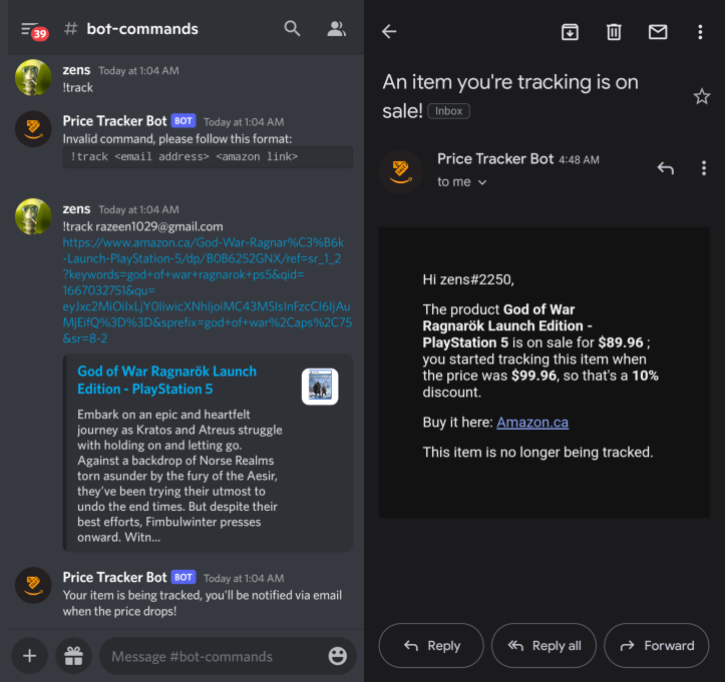
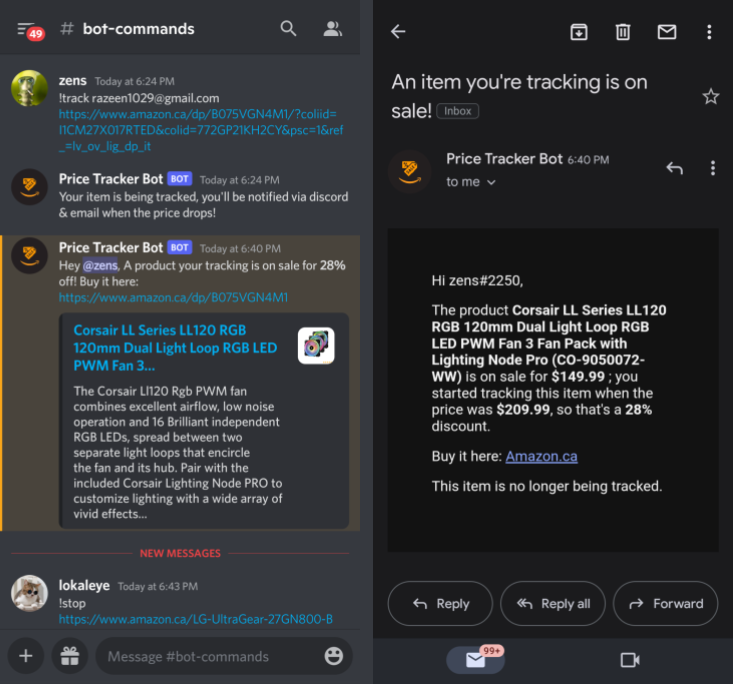
implemented cogs

diff --git a/bot.py b/bot.py
@@ -1,76 +1,27 @@
 import discord
-from discord.ext import tasks
+from discord.ext import commands
+import os 
+import asyncio
 from dotenv import load_dotenv
 from os import getenv
-from main import add, main, remove
-import re
 
 load_dotenv('.env')
 intents = discord.Intents.all()
-intents.messages = True
-client = discord.Client(intents=intents)
+intents.members = True
+activity = discord.Activity(type=discord.ActivityType.watching, name="Amazon Prices")
+bot = commands.Bot(command_prefix="!", intents=intents, help_command=None, activity=activity)
 
-async def verify(link):
-    if link.startswith("https://www.amazon.ca/") and 'B0' in link:
-        asin = re.search(r'/[dg]p/([^/]+)', link, flags=re.IGNORECASE).group(1)
-        if asin[:2] != 'B0':
-            asin = re.search(r'/product/([^/]+)', link, flags=re.IGNORECASE).group(1)
-        return asin
-    else:
-        return False
+async def load():
+    for file in os.listdir('./cogs'):
+        if file.endswith('.py'):
+            await bot.load_extension(f'cogs.{file[:-3]}')
 
-async def track(message, asin, email, username):
-    if asin is False:
-        response = "Invalid link, make sure it's an Amazon.ca product page link."  
-    elif '@' and '.com' not in email:
-        response = "Invalid email."
-    else:
-        await add(asin, email, username)
-        response = "Your item is being tracked, you'll be notified via email when the price drops!"
-    await message.channel.send(response)
-
-async def stop(message, asin, username):
-    if asin is False:
-        response = "Invalid link, make sure it's an Amazon.ca product page link."          
-    else:
-        remove(username, asin) 
-        response = "You are no longer tracking this item."
-    await message.channel.send(response)
-
-@tasks.loop(minutes=30)
-async def checkPrices():
-    await main()
-    print("Price checking complete.")
-
-@client.event
+@bot.event
 async def on_ready():
-    await client.change_presence(activity=discord.Activity(type=discord.ActivityType.watching, name="Amazon Prices"))
-    checkPrices.start()
-    print(f'{client.user} is now running!')
+    print(f'\nLogged in as: {bot.user.name}\nVersion: {discord.__version__}\n')
 
-@client.event
-async def on_message(message):
-    if message.author == client.user:
-        return 
+async def main():
+    await load()
+    await bot.start(getenv('TOKEN'))
 
-    if message.content.startswith('!track'):
-        try:
-            email = message.content.split()[1]
-            link = str(message.content.split()[2]) 
-            username = str(message.author)
-            await track(message, await verify(link), email, username)
-        except IndexError: 
-            await message.channel.send("Invalid Command, Try: !commands")
-    elif  message.content.startswith('!stop'):
-        try:
-            link = str(message.content.split()[1]) 
-            username = str(message.author)
-            await stop(message, await verify(link), username)
-        except IndexError: 
-            await message.channel.send("Invalid Command, Try: !commands")
-    elif message.content.startswith('!commands'):
-        await message.channel.send("```!track <email address> <amazon link>```" +"```!stop <amazon link>```")
-    else:
-        return
-
-client.run(getenv('TOKEN'))
+asyncio.run(main())

diff --git a/cogs/track.py b/cogs/track.py
@@ -1,0 +1,43 @@
+from discord.ext import commands
+from discord.ext import tasks
+from data import fetch_data
+from scraper import scrape
+from gmail import create_message
+
+class track(commands.Cog):
+    def __init__(self, bot):
+        self.bot = bot
+        self.run.start()
+    
+    @commands.command()
+    async def mention(self, userID, channelID, discount, asin):
+        channel = self.bot.get_channel(channelID)
+        await channel.send(f"Hey <@{userID}>, A product your tracking is on sale for **{discount}%** off! Buy it here: https://www.amazon.ca/dp/{asin}")
+
+    async def notify(self, document, current_price, discount):
+        title = await scrape('title', document["ASIN"])     
+        for userInfo in document["user-info"]:
+            await self.mention(userInfo["userID"], userInfo["channelID"], discount, document["ASIN"])
+            create_message(userInfo["email"], self.bot.get_user(userInfo["userID"]), title, current_price, document["price"], discount, document["ASIN"]) 
+        fetch_data().delete_one({"entry.ASIN":document["ASIN"]}) 
+
+    def compare_price(self, current_price, listed_price):
+        if float(current_price) < listed_price:
+            discount = int(((listed_price-float(current_price))/listed_price)*100)
+            if discount >= 5:
+                print("On sale.")
+                return discount
+        else:
+            print("No sale.")
+
+    @tasks.loop(minutes=30)
+    async def run(self):
+        for document in fetch_data().distinct("entry"):
+            current_price = await scrape('price', document["ASIN"])
+            discount = self.compare_price(current_price, document["price"])
+            if discount: 
+                print("Sending out emails")          
+                await self.notify(document, current_price, discount)  
+        
+async def setup(bot):
+    await bot.add_cog(track(bot))

diff --git a/cogs/commands.py b/cogs/commands.py
@@ -1,0 +1,47 @@
+from discord.ext import commands
+from data import add, remove
+import re
+
+class commands(commands.Cog):
+    def __init__(self, bot):
+        self.bot = bot
+
+    @commands.command()
+    async def track(self, ctx, email, *, link):
+        userID = ctx.author.id
+        channelID = ctx.channel.id
+        asin = await verify(link)   
+        if asin is False:
+            response = "Invalid link, make sure it's an Amazon.ca product page link."  
+        elif '@' not in email or '.com' not in email:
+            response = "Invalid email."
+        else:
+            await add(asin, email, userID, channelID)
+            response = "Your item is being tracked, you'll be notified via discord & email when the price drops!"
+        await ctx.send(response)
+
+    @commands.command()
+    async def stop(self, ctx, link):
+        asin = await verify(link)   
+        if asin is False:
+            response = "Invalid link, make sure it's an Amazon.ca product page link."          
+        else:
+            remove(ctx.author.id, asin) 
+            response = "You are no longer tracking this item."
+        await ctx.send(response)
+
+    @commands.command()
+    async def help(self, ctx):
+        await ctx.send("List of commands:```!track <email address> <amazon link>```"+"```!stop <amazon link>```")
+
+async def verify(link):
+    if link.startswith("https://www.amazon.ca/") and 'B0' in link:
+        asin = re.search(r'/[dg]p/([^/]+)', link, flags=re.IGNORECASE).group(1)
+        if asin[:2] != 'B0':
+            asin = re.search(r'/product/([^/]+)', link, flags=re.IGNORECASE).group(1)
+        return asin
+    else:
+        return False
+
+async def setup(bot):
+    await bot.add_cog(commands(bot))

diff --git a/data.py b/data.py
@@ -1,0 +1,57 @@
+from pymongo import MongoClient
+import certifi
+from dotenv import load_dotenv
+from os import getenv
+from scraper import scrape
+
+load_dotenv('.env')
+cluster = MongoClient(getenv('LOGIN'), tlsCAFile=certifi.where())
+db = cluster["Amazon-Price-Tracker"]
+collection = db["Entries"]
+
+async def add(asin, email, userID, channelID):
+    asinList = collection.distinct("entry.ASIN")
+    if asin in asinList: 
+        collection.update_one( 
+            {"entry.ASIN" : asin},
+            {"$addToSet": {
+                    "entry.user-info": {
+                        "email": f"{email}",
+                        "userID": userID,
+                        "channelID": channelID
+                    }
+                }
+            }
+        )
+    elif asin not in asinList:
+        price = await scrape('price', asin)
+        entry = {"entry": 
+            {
+                "ASIN": f"{asin}",
+                "price": float(price),
+                "user-info": [
+                {
+                    "email":f"{email}",
+                    "userID": userID,
+                    "channelID": channelID
+                }]
+            }
+        }
+        collection.insert_one(entry)
+
+def remove(userID, asin):
+    asinList = collection.distinct("entry.ASIN")
+    if asin in asinList: 
+        collection.update_one(
+            {"entry.ASIN" : asin},
+            {"$pull": {
+                    "entry.user-info": {
+                        "userID": userID
+                    }
+                }
+            }
+        )
+    collection.delete_one({ "entry.user-info.0":{"$exists":False}})
+
+def fetch_data():
+    return collection

diff --git a/gmail.py b/gmail.py
@@ -10,7 +10,7 @@ from apiclient import errors, discovery
 SCOPES = 'https://www.googleapis.com/auth/gmail.send'
 CLIENT_SECRET_FILE = 'client_secret.json'
 
-def getCredentials():
+def get_credentials():
     home_dir = os.path.expanduser('~')
     credential_dir = os.path.join(home_dir, '.credentials')
     if not os.path.exists(credential_dir):
@@ -24,7 +24,7 @@ def getCredentials():
         print('Storing credentials to ' + credential_path)
     return credentials
 
-def createMessage(recipient, username, title, price, listedPrice, discount, asin):
+def create_message(recipient, username, title, price, listedPrice, discount, asin):
     msg = MIMEMultipart()
     msg['Subject']  = "An item you're tracking is on sale!"
     msg['To'] = recipient
@@ -33,10 +33,10 @@ def createMessage(recipient, username, title, price, listedPrice, discount, asin
     msg.attach(MIMEText(html, 'html'))
     raw = base64.urlsafe_b64encode(msg.as_bytes()).decode()
     email = {'raw': raw}
-    sendMessage(email)
+    send_message(email)
 
-def sendMessage(email):
-    http = getCredentials().authorize(httplib2.Http())
+def send_message(email):
+    http = get_credentials().authorize(httplib2.Http())
     service = discovery.build('gmail', 'v1', http)
     try:
         message = (service.users().messages().send(userId="me", body=email).execute())

diff --git a/scraper.py b/scraper.py
@@ -1,0 +1,20 @@
+from requests_html import AsyncHTMLSession
+
+async def scrape(type, asin):
+    asession = AsyncHTMLSession() 
+    page = await asession.get(f'https://www.amazon.ca/gp/product/{asin}')
+    await page.html.arender(timeout = 20)  
+    if type == 'price':
+        try:
+            price = page.html.find('.a-offscreen')[0].text.replace('$','').strip()
+        except IndexError:
+            whole = page.html.find('.a-price-whole')[0].text
+            fraction = page.html.find('.a-price-fraction')[0].text
+            price = whole+fraction
+        await asession.close() 
+        print(price)
+        return price
+    elif type == 'title':
+        title = page.html.find('#productTitle')[0].text 
+        await asession.close() 
+        return title

diff --git a/README.md b/README.md
@@ -3,18 +3,17 @@
 A simple to use Discord bot that helps you track Amazon.ca products for price drops. Simply give the bot a link of the product you wish to track along with your email and It'll notify you through email when the product goes on sale. 
 
 ### List of Commands:
-
-* !commands
+* !help
 * !track <<e>email address> <<e>amazon link>
 * !stop <<e>amazon link>
 
 ## How it Works
 
-When the **!track** command is used the bot obtains the users email address, ASIN and username. It then stores these values and the current product price into a document on MonogDB, if the ASIN already exists in the database the username and email will be appended to the coressponding documents username and email array so multiple users can be tracking the same product. 
+When the **!track** command is used the bot obtains the users email address, ASIN userID and channelID. It then stores these values and the current product price into a document on MonogDB, if the ASIN already exists in the database the users details will be appended to the coressponding documents user-info array so multiple users can be tracking the same product. 
 
-The **!stop** command allows users to stop tracking a product, it requires the amazon link input so that the bot can query the database and find the product ASIN if it exists and remove the user from the mailing list if they were tracking it, if the mailing list is emtpy the document is deleted so that the product isn't being tracked for nobody. 
+The **!stop** command allows users to stop tracking a product, it requires the amazon link as input so that the bot can query the database and find the product ASIN if it exists and remove the users details from the list if they were tracking it, now that user won't be notified for if that product goes on sale. If the user-info list is emtpy the document is deleted so that the product isn't being tracked for nobody. 
 
-Every few minutes the program loops through the documents, obtains the ASIN values, scrapes the current prices on the Amazon site and compares it to the price written on file. If there is price drop an email is created using an HTML template and is then sent out using the Gmail API to all users that are tracking the product. The associated document is then deleted from the database.
+Every few minutes the program loops through the documents, obtains the ASIN values, scrapes the current prices on the Amazon site and compares it to the price written on file. If there is price drop all users tracking the product will be notified through a ping on discord and an email is created using an HTML template and is then sent out using the Gmail API to all users. The associated document is then deleted from the database.
 
 This project utilizes Asynchronous Web Scraping, MonogDB, Gmail API and Discord API. 
 
